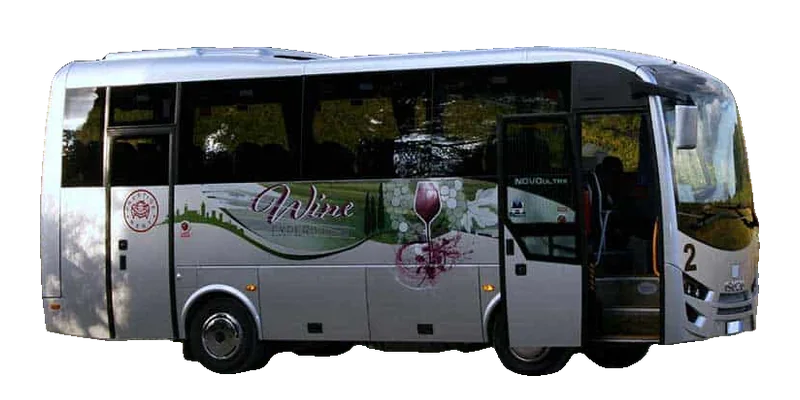
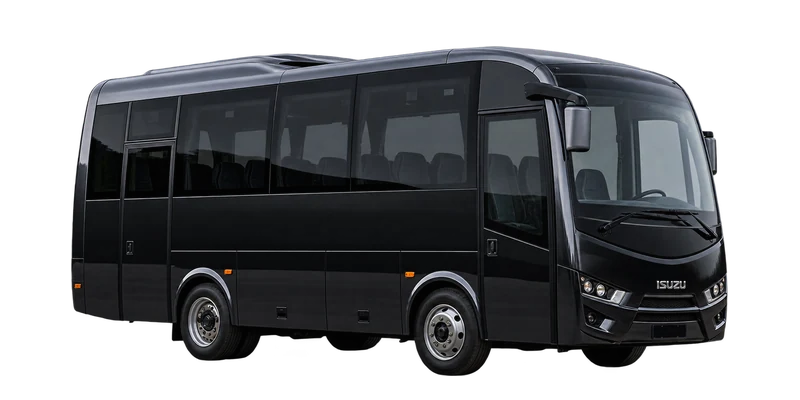
Flotta: nuove immagini di Isuzu e pullman (nere, in studio, date dalla proprieta')

diff --git a/src/lib/flotta.ts b/src/lib/flotta.ts
@@ -39,22 +39,16 @@
  * trovi di migliori»):
  *  - le quattro AUTO sono le immagini di studio gia' usate dal sito
  *    (/our-vehicles/, media/wp/2021/09/Mercedes-Benz-*-black.png);
- *  - l'ISUZU e' un nostro minibus vero, con la livrea «Wine Experience»
- *    (media/wp/2021/04/Wine-bus-at-a-Tuscan-winery-1.jpg), scontornato;
- *  - il PULLMAN (chiave `atego`) dal 13/10/2026 e' il nostro, nuovo,
- *    con la nostra livrea: foto della proprieta' scattata in garage
- *    (carrozzeria «Tourer 1224 HD Top Class»), scontornata con rembg
- *    (isnet-general-use) e GIRATA col muso a destra come gli altri.
- *    Girandola le scritte venivano a specchio: logo tondo, scritta sulla
- *    porta e targhetta del modello sono state rimesse dritte copiandole
- *    dall'originale; la scritta «Webasto» del climatizzatore (marchio di
- *    un'altra azienda) e' stata tolta. E' bianco, e sul fondo chiaro
- *    della scheda il retro spariva (proprieta'): ha un contorno grigio
- *    sottile lungo la sagoma (l'ombra a terra e' stata tolta: «non
- *    realistica»). Prima c'era una foto di Wikimedia
- *    Commons di un modello vecchio («troppo vecchio», proprieta'): con
- *    lei sono spariti i crediti in fondo alla pagina. Oggi nessuna foto
- *    chiede crediti, ma `credito` resta per quando servira'.
+ *  - ISUZU e PULLMAN (chiave `atego`), dal 30/10/2026: le due immagini
+ *    in studio, nere e gia' scontornate, date dalla proprieta'
+ *    (docs/flotta/: «Isuzu Novo Ultra nero a tre quarti.png», «Midibus
+ *    Mercedes Atego nero in studio.png»). Gia' col muso a destra: solo
+ *    messe sulla tela. Neri come le auto, quindi senza il contorno grigio
+ *    che serviva al pullman bianco di prima. Prima c'erano: per l'Isuzu
+ *    un nostro minibus con la livrea «Wine Experience», per il pullman la
+ *    foto del nostro in garage (13/10), e prima ancora una di Wikimedia
+ *    Commons. Oggi nessuna foto chiede crediti, ma `credito` resta per
+ *    quando servira'.
  *
  * TUTTE SULLA STESSA TELA: 800x400, trasparente, il mezzo ridotto a
  * stare in un riquadro di 740x330, centrato e appoggiato a 24px dal
@@ -232,7 +226,7 @@ export const FLOTTA: Mezzo[] = [
     persone: null,
     gruppi: true,
     suRichiesta: null,
-    foto: '/listino/flotta/isuzu.webp?v=2',
+    foto: '/listino/flotta/isuzu.webp?v=3',
     credito: null,
     it: {
       tipo: 'Minibus',
@@ -253,7 +247,7 @@ export const FLOTTA: Mezzo[] = [
     persone: null,
     gruppi: false,
     suRichiesta: 'Groups of 9 or more, events and weddings, on request.',
-    foto: '/listino/flotta/atego.webp?v=5',
+    foto: '/listino/flotta/atego.webp?v=6',
     credito: null,
     it: {
       tipo: 'Pullman',
